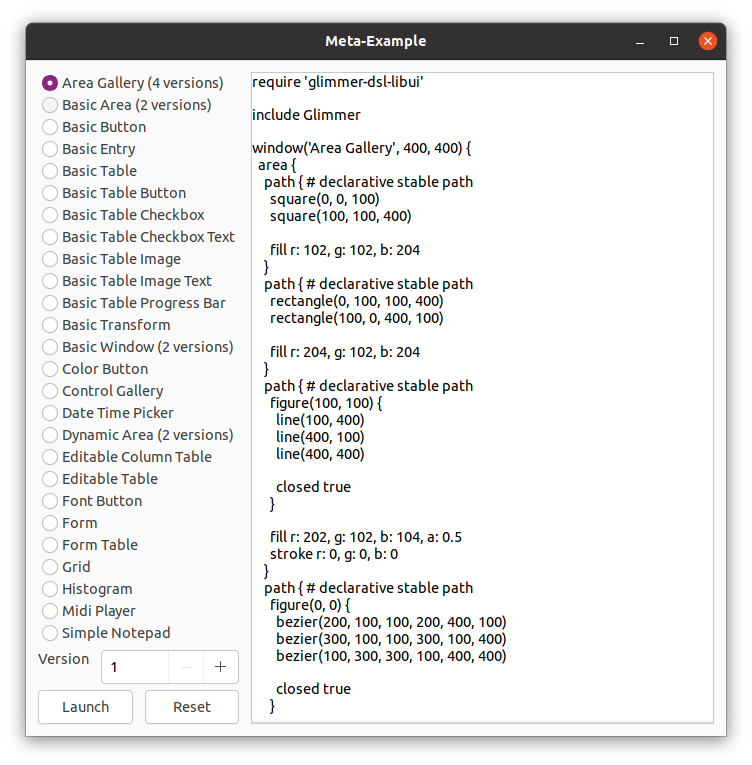
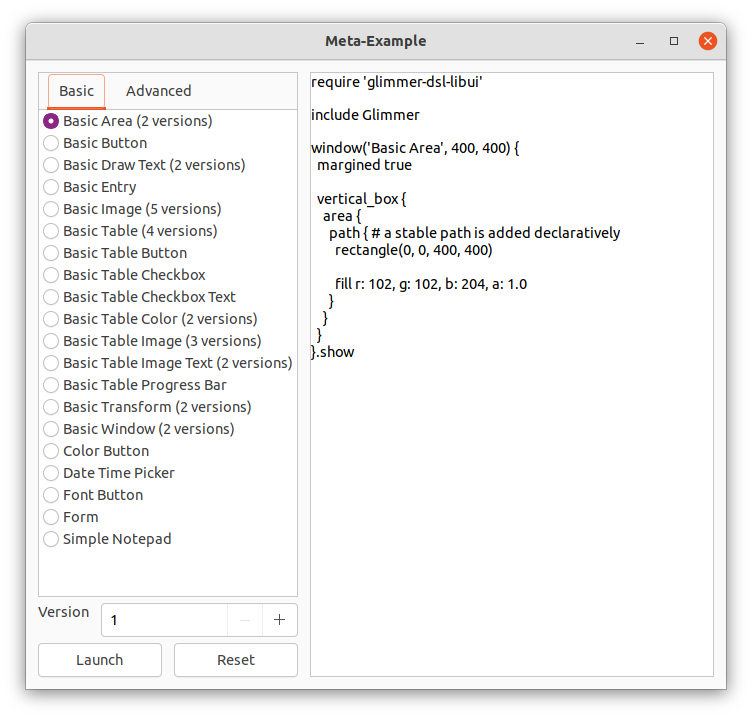
Add a second tab to examples/meta_example.rb to fit more examples

Changed region(s): [[0.0306, 0.0306, 0.9787, 0.9805], [0.6729, 0.3677, 0.7035, 0.3983]]

diff --git a/examples/meta_example.rb b/examples/meta_example.rb
@@ -5,8 +5,10 @@ require 'fileutils'
 class MetaExample
   include Glimmer
   
+  ADDITIONAL_BASIC_EXAMPLES = ['Color Button', 'Font Button', 'Form', 'Date Time Picker', 'Simple Notepad']
+  
   def initialize
-    @selected_example_index = 0
+    @selected_example_index = examples_with_versions.index(basic_examples_with_versions.first)
   end
   
   def examples
@@ -23,6 +25,14 @@ class MetaExample
     examples.map do |example|
       version_count_for(example) > 1 ? "#{example} (#{version_count_for(example)} versions)" : example
     end
+  end
+  
+  def basic_examples_with_versions
+    examples_with_versions.select {|example| example.start_with?('Basic') || ADDITIONAL_BASIC_EXAMPLES.include?(example) }
+  end
+  
+  def advanced_examples_with_versions
+    examples_with_versions - basic_examples_with_versions
   end
   
   def file_path_for(example)
@@ -66,17 +76,47 @@ class MetaExample
         vertical_box {
           stretchy false
           
-          @example_radio_buttons = radio_buttons {
+          tab {
             stretchy false
-            items examples_with_versions
-            selected @selected_example_index
             
-            on_selected do
-              @selected_example_index = @example_radio_buttons.selected
-              example = selected_example
-              @code_entry.text = File.read(file_path_for(example))
-              @version_spinbox.value = 1
-            end
+            tab_item('Basic') {
+              vertical_box {
+                @basic_example_radio_buttons = radio_buttons {
+                  stretchy false
+                  items basic_examples_with_versions
+                  selected basic_examples_with_versions.index(examples_with_versions[@selected_example_index])
+                  
+                  on_selected do
+                    @selected_example_index = examples_with_versions.index(basic_examples_with_versions[@basic_example_radio_buttons.selected])
+                    example = selected_example
+                    @code_entry.text = File.read(file_path_for(example))
+                    @version_spinbox.value = 1
+                  end
+                }
+                
+                label # filler
+                label # filler
+              }
+            }
+            
+            tab_item('Advanced') {
+              vertical_box {
+                @advanced_example_radio_buttons = radio_buttons {
+                  stretchy false
+                  items advanced_examples_with_versions
+                  
+                  on_selected do
+                    @selected_example_index = examples_with_versions.index(advanced_examples_with_versions[@advanced_example_radio_buttons.selected])
+                    example = selected_example
+                    @code_entry.text = File.read(file_path_for(example))
+                    @version_spinbox.value = 1
+                  end
+                }
+                
+                label # filler
+                label # filler
+              }
+            }
           }
           
           horizontal_box {

diff --git a/CHANGELOG.md b/CHANGELOG.md
@@ -10,6 +10,7 @@
 - Simplify examples/tetris.rb by nesting shapes directly under `area`
 - Simplify examples/tic_tac_toe.rb by nesting shapes directly under `area`
 - Simplify examples/snake.rb by nesting shapes directly under `area`
+- Add a second tab to examples/meta_example.rb to fit more examples
 - Upgrade glimmer to 2.5.0
 - Fix issue in examples/tic_tac_toe.rb permitting change of symbol in marked area
 

diff --git a/TODO.md b/TODO.md
@@ -3,7 +3,6 @@
 ## Next
 
 - Update Style Guide to have an example for each bullet point and augment from Glimmer DSL for Tk's Style Guide (also make distinction between distancing keywords having content or not)
-- Add a second column of radio buttons to layout of meta_example to fit more examples
 
 ## Soon
 
